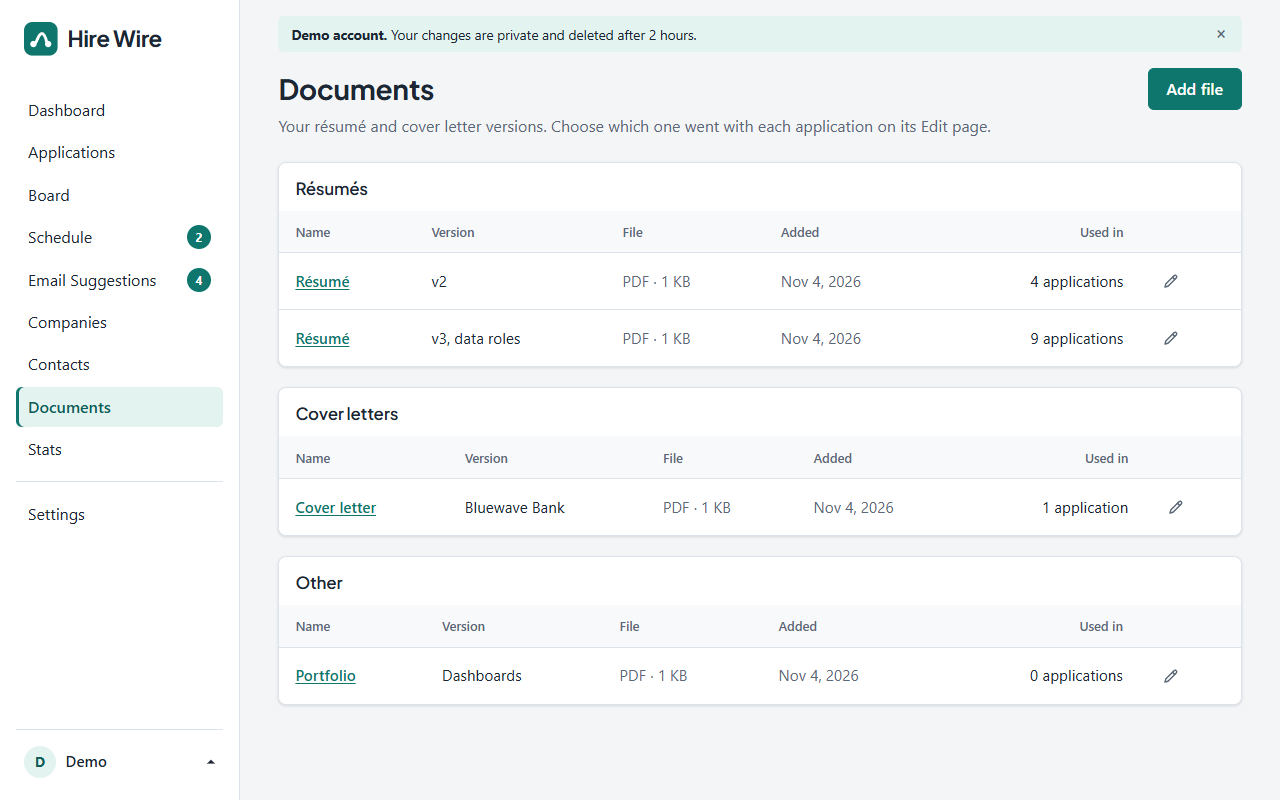
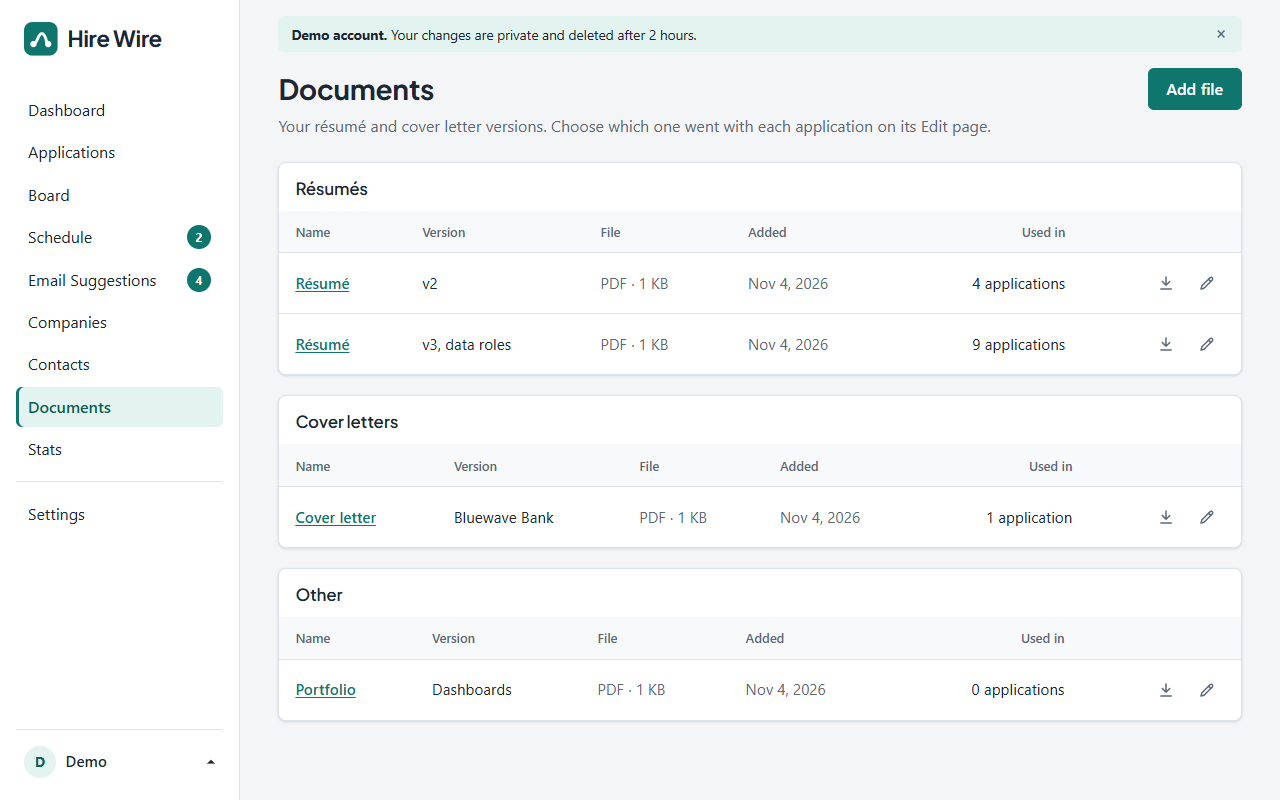
Polish Companies, Documents, Settings and the login message
From a design review the user pasted:
- Companies show the same coloured letter as the Board, on each card
  and next to the name on the company's page.
- Links get a thicker underline on hover, not only a colour change.
- Documents get a Download button beside Edit; both icon buttons are
  bigger (36px).
- Settings: the time zone and reminder Save buttons look asleep until
  something in their form changes, then wake up with an "Unsaved
  changes" note. They still work either way.
- The calendar link's Copy button now also shows where the browser has
  no clipboard; there it selects the link for Ctrl+C.
- Login: the logout message was already a toast with JavaScript (PR
  #8); without JavaScript it now floats at the top right instead of
  squeezing the green panel. Toasts fade after 5 seconds (was 6).
- Chart labels already passed (5.7:1 light, 6.7:1 dark).
- All README pictures retaken.

diff --git a/hirewire/static/style.css b/hirewire/static/style.css
@@ -148,7 +148,8 @@ h2 { font-size: 1.2rem; }
 h3 { font-size: 1.05rem; }
 p { margin: 0 0 1em; }
 a { color: var(--accent); text-underline-offset: .15em; }
-a:hover { color: var(--accent-strong); }
+/* Links are underlined; on hover the line gets thicker too, not only the colour. */
+a:hover { color: var(--accent-strong); text-decoration-thickness: 2px; }
 img { max-width: 100%; height: auto; display: block; }
 [hidden] { display: none !important; }
 :focus-visible { outline: 2px solid var(--accent); outline-offset: 2px; }
@@ -189,6 +190,8 @@ img { max-width: 100%; height: auto; display: block; }
 .flash-error { background: var(--danger-soft); border-left-color: var(--danger); }
 .flash-close { flex: none; width: 1.6rem; height: 1.6rem; margin: -.1rem 0; padding: 0; background: none; border: 0; border-radius: 50%; color: var(--ink-soft); font-size: 1.15rem; line-height: 1; cursor: pointer; }
 .flash-close:hover { background: var(--surface); color: var(--ink); }
+/* Without JavaScript, the login page's message floats at the top right instead of squeezing the panel. */
+html:not(.js) .welcome-layout .flashes { position: absolute; top: 1rem; right: 1rem; z-index: 5; width: min(26rem, calc(100% - 2rem)); }
 /* With JavaScript: toasts in the bottom right corner (across the bottom on phones). */
 .js .flashes { position: fixed; right: 1.5rem; bottom: 1.5rem; z-index: 50; width: min(26rem, calc(100% - 2rem)); margin: 0; }
 .js .flash { background: var(--surface); border: 1px solid var(--rule); border-left: 4px solid var(--accent); box-shadow: 0 .5rem 1.5rem rgb(0 0 0 / .18); animation: toast-in .2s ease-out; }
@@ -375,6 +378,9 @@ img { max-width: 100%; height: auto; display: block; }
 .theme-choice input:checked + span { background: var(--accent); color: var(--on-accent); font-weight: 600; }
 .theme-choice input:focus-visible + span { outline: 2px solid var(--accent); outline-offset: -4px; }
 .copy-line { display: block; width: 100%; padding: .6rem .75rem; background: var(--surface-soft); border: 1px solid var(--rule); border-radius: var(--radius-small); font-family: Consolas, Menlo, monospace; font-size: .85rem; color: var(--ink); }
+/* Settings: Save looks asleep until something in its form changes. */
+.button.is-waiting { background: var(--surface); color: var(--ink-soft); border-color: var(--control-border); font-weight: 500; box-shadow: none; }
+.unsaved-note { color: var(--warning-ink); font-size: .88rem; font-weight: 600; }
 .status-line { display: flex; flex-wrap: wrap; align-items: center; gap: .5rem 1rem; margin: 0 0 1rem; }
 
 /* ---------- Stage pills ---------- */
@@ -429,7 +435,12 @@ html { scrollbar-color: var(--rule-strong) var(--bg); }
 .company-grid { list-style: none; margin: 0; padding: 0; display: grid; grid-template-columns: repeat(auto-fill, minmax(min(100%, 17rem), 1fr)); gap: 1rem; }
 .company-card { position: relative; margin: 0; display: flex; flex-direction: column; }
 .company-card:hover { border-color: var(--accent); }
-.company-card h2 { font-size: 1.05rem; margin-bottom: .25rem; }
+.company-card h2 { font-size: 1.05rem; margin: 0; min-width: 0; }
+.company-card-head { display: flex; align-items: center; gap: .65rem; margin-bottom: .35rem; }
+.company-card-head .company-badge { width: 2.1rem; height: 2.1rem; font-size: .95rem; }
+.company-title { display: inline-flex; align-items: center; gap: .7rem; }
+.company-title .company-badge { width: 2.4rem; height: 2.4rem; font-size: 1.05rem; }
+.doc-actions { white-space: nowrap; text-align: right; }
 .company-card p { margin: 0; }
 .company-count { margin-top: auto !important; padding-top: .75rem; font-size: .88rem; font-weight: 600; color: var(--ink-soft); }
 
@@ -640,7 +651,7 @@ html { scrollbar-color: var(--rule-strong) var(--bg); }
 .snooze-menu { position: absolute; right: 0; top: calc(100% + .3rem); z-index: 4; display: grid; min-width: 8rem; margin: 0; padding: .3rem; background: var(--surface); border: 1px solid var(--rule); border-radius: var(--radius-small); box-shadow: 0 .25rem 1rem rgb(0 0 0 / .12); }
 .snooze-menu .link-button { padding: .4rem .6rem; border-radius: var(--radius-small); color: var(--ink); text-align: left; }
 .snooze-menu .link-button:hover { background: var(--surface-soft); text-decoration: none; }
-.icon-link { display: inline-flex; align-items: center; justify-content: center; width: 2rem; height: 2rem; border-radius: var(--radius-small); color: var(--ink-soft); }
+.icon-link { display: inline-flex; align-items: center; justify-content: center; width: 2.25rem; height: 2.25rem; border-radius: var(--radius-small); color: var(--ink-soft); }
 .icon-link:hover { background: var(--surface-soft); color: var(--accent); }
 .date-tile { flex: none; display: flex; flex-direction: column; align-items: center; justify-content: center; width: 3.1rem; height: 3.3rem; border: 1px solid var(--rule); border-radius: var(--radius-small); background: var(--surface-soft); line-height: 1.1; }
 .date-month { font-size: .7rem; font-weight: 700; letter-spacing: .06em; text-transform: uppercase; color: var(--accent-strong); }

diff --git a/hirewire/static/app.js b/hirewire/static/app.js
@@ -61,7 +61,7 @@ function setUpConfirm() {
   });
 }
 
-// Messages float as toasts. Good news fades after 6 seconds (not while pointed at or
+// Messages float as toasts. Good news fades after 5 seconds (not while pointed at or
 // focused); a problem stays until closed, so nobody misses it.
 function setUpToasts() {
   document.querySelectorAll("[data-flash]").forEach((toast) => {
@@ -73,7 +73,7 @@ function setUpToasts() {
     };
     close.addEventListener("click", leave);
     if ("stays" in toast.dataset) return;
-    let timer = setTimeout(leave, 6000);
+    let timer = setTimeout(leave, 5000);
     const pause = () => clearTimeout(timer);
     const resume = () => { clearTimeout(timer); timer = setTimeout(leave, 3000); };
     toast.addEventListener("mouseenter", pause);
@@ -83,11 +83,13 @@ function setUpToasts() {
   });
 }
 
-// "Copy" buttons next to a recovery code or a calendar link.
+// "Copy" buttons next to a recovery code or a calendar link. Where the browser has no
+// clipboard (an http address), the text is selected for Ctrl+C instead.
 function setUpCopy() {
   document.querySelectorAll("[data-copy-button]").forEach((button) => {
     const source = button.closest(".card, .setting").querySelector("[data-copy-text]");
-    if (!source || !navigator.clipboard) return;
+    if (!source) return;
+    if (!navigator.clipboard && !("copyAnywhere" in button.dataset)) return;
     button.hidden = false;
     const label = button.textContent;
     button.addEventListener("click", async () => {
@@ -95,10 +97,35 @@ function setUpCopy() {
         await navigator.clipboard.writeText(source.value || source.textContent.trim());
         button.textContent = "Copied";
       } catch (error) {
-        button.textContent = "Copy didn't work";
+        if (source.select) source.select();
+        button.textContent = "Selected: press Ctrl+C";
       }
-      setTimeout(() => { button.textContent = label; }, 2000);
+      setTimeout(() => { button.textContent = label; }, 2500);
     });
+  });
+}
+
+// Settings: each Save button looks asleep until its form has a change, then wakes up
+// and says so. It still works either way (and without JavaScript it is always awake).
+function setUpUnsavedChanges() {
+  document.querySelectorAll("form[data-watch-changes]").forEach((form) => {
+    const button = form.querySelector("button[type=submit]");
+    if (!button || button.closest("fieldset:disabled")) return;
+    const note = document.createElement("span");
+    note.className = "unsaved-note";
+    note.textContent = "Unsaved changes";
+    note.hidden = true;
+    button.before(note);
+    const snapshot = () => new URLSearchParams(new FormData(form)).toString();
+    const start = snapshot();
+    const update = () => {
+      const changed = snapshot() !== start;
+      button.classList.toggle("is-waiting", !changed);
+      note.hidden = !changed;
+    };
+    form.addEventListener("input", update);
+    form.addEventListener("change", update);
+    update();
   });
 }
 
@@ -269,6 +296,7 @@ setUpMenu();
 setUpUserMenu();
 setUpConfirm();
 setUpCopy();
+setUpUnsavedChanges();
 setUpFilters();
 setUpFilterPanel();
 setUpRowLinks();

diff --git a/hirewire/templates/documents/list.html b/hirewire/templates/documents/list.html
@@ -12,7 +12,7 @@
       <h2 class="table-title">{{ label }}{{ 's' if label != 'Other' }}</h2>
       <div class="table-scroll">
         <table class="table as-cards">
-          <thead><tr><th>Name</th><th>Version</th><th>File</th><th>Added</th><th class="num">Used in</th><th><span class="visually-hidden">Edit</span></th></tr></thead>
+          <thead><tr><th>Name</th><th>Version</th><th>File</th><th>Added</th><th class="num">Used in</th><th><span class="visually-hidden">Download and edit</span></th></tr></thead>
           <tbody>
             {% for doc in files %}
               <tr>
@@ -21,7 +21,10 @@
                 <td class="col-meta muted">{{ doc.filename.rsplit('.', 1)[1]|upper }} · {{ size_words(doc.size) }}</td>
                 <td class="col-meta muted">{{ doc.created_at|nice_date }}</td>
                 <td class="col-meta num">{% set count = used.get(doc.id, 0) %}{{ count }} {{ 'application' if count == 1 else 'applications' }}</td>
-                <td class="col-stage"><a class="icon-link" href="{{ url_for('documents.edit', document_id=doc.id) }}" aria-label="Edit {{ doc.name }}">{{ pencil_icon() }}</a></td>
+                <td class="col-stage doc-actions">
+                  <a class="icon-link" href="{{ url_for('documents.download', document_id=doc.id) }}" aria-label="Download {{ doc.title }}" title="Download"><svg viewBox="0 0 24 24" width="18" height="18" fill="none" stroke="currentColor" stroke-width="2" stroke-linecap="round" stroke-linejoin="round" aria-hidden="true"><path d="M12 4v11M7 10l5 5 5-5M5 20h14"></path></svg></a>
+                  <a class="icon-link" href="{{ url_for('documents.edit', document_id=doc.id) }}" aria-label="Edit {{ doc.title }}" title="Edit">{{ pencil_icon() }}</a>
+                </td>
               </tr>
             {% endfor %}
           </tbody>

diff --git a/hirewire/templates/settings.html b/hirewire/templates/settings.html
@@ -26,7 +26,7 @@
         <h2>Time Zone</h2>
         <p>Interview times, reminders and "today" follow this place.</p>
       </div>
-      <form method="post">
+      <form method="post" data-watch-changes>
         {{ csrf() }}
         <input type="hidden" name="action" value="timezone">
         <fieldset class="stack plain-fieldset" {{ locked }}>
@@ -41,7 +41,7 @@
         <h2>Reminders</h2>
         <p>Hire Wire adds these follow-ups for you. They go away by themselves when they stop making sense.</p>
       </div>
-      <form method="post">
+      <form method="post" data-watch-changes>
         {{ csrf() }}
         <input type="hidden" name="action" value="reminders">
         <fieldset class="stack plain-fieldset" {{ locked }}>
@@ -73,7 +73,7 @@
             <li>Paste the link and press <strong>Add calendar</strong>. It shows on your phone too.</li>
           </ol>
           <div class="form-actions setting-account-actions">
-            <button class="button" type="button" data-copy-button hidden>Copy link</button>
+            <button class="button" type="button" data-copy-button data-copy-anywhere hidden>Copy link</button>
             <form method="post" data-confirm="Make a new link? The old one stops working, so calendars using it stop updating.">
               {{ csrf() }}<input type="hidden" name="action" value="calendar_on">
               <button class="button button-quiet" type="submit" {{ locked }}>Make a new link</button>

diff --git a/hirewire/templates/companies/list.html b/hirewire/templates/companies/list.html
@@ -17,7 +17,10 @@
     <ul class="company-grid">
       {% for company, count in rows %}
         <li class="card company-card">
-          <h2><a class="row-link" href="{{ url_for('companies.detail', company_id=company.id) }}">{{ company.name }}</a></h2>
+          <div class="company-card-head">
+            <span class="company-badge company-badge-{{ company.id % 6 }}" aria-hidden="true">{{ company.name[:1]|upper }}</span>
+            <h2><a class="row-link" href="{{ url_for('companies.detail', company_id=company.id) }}">{{ company.name }}</a></h2>
+          </div>
           <p class="muted small">{{ [company.industry, company.location]|select|join(' · ') or 'No details yet' }}</p>
           <p class="company-count">{{ count }} {{ 'application' if count == 1 else 'applications' }}</p>
         </li>

diff --git a/hirewire/templates/companies/detail.html b/hirewire/templates/companies/detail.html
@@ -4,7 +4,7 @@
 {% block content %}
   <a class="back-link" href="{{ url_for('companies.index') }}">&larr; Companies</a>
   <div class="page-head">
-    <h1>{{ company.name }}</h1>
+    <h1 class="company-title"><span class="company-badge company-badge-{{ company.id % 6 }}" aria-hidden="true">{{ company.name[:1]|upper }}</span>{{ company.name }}</h1>
     <div class="actions">
       <a class="button button-quiet" href="{{ url_for('companies.edit', company_id=company.id) }}">{{ pencil_icon() }} Edit</a>
       <a class="button" href="{{ url_for('applications.new', company_name=company.name) }}">Add application</a>

diff --git a/tests/test_extras.py b/tests/test_extras.py
@@ -145,6 +145,22 @@ def test_upload_download_and_use_a_document(app, me, user_id):
     assert documents(app) == [] and get_job(app, job_id).resume_id is None
 
 
+def test_each_file_has_a_download_button(app, me):
+    upload(me)
+    doc = documents(app)[0]
+    page = me.get("/documents/").get_data(as_text=True)
+    assert f'href="/documents/{doc.id}/file" aria-label="Download Résumé (v3)"' in page
+    assert 'aria-label="Edit Résumé (v3)"' in page
+
+
+def test_companies_show_their_letter(app, me, user_id):
+    job_id = add_job(app, user_id, "Initech")
+    company_id = get_job(app, job_id).company_id
+    badge = f'<span class="company-badge company-badge-{company_id % 6}" aria-hidden="true">I</span>'
+    assert badge in me.get("/companies/").get_data(as_text=True)
+    assert badge in me.get(f"/companies/{company_id}").get_data(as_text=True)
+
+
 def test_word_files_too(app, me):
     assert upload(me, DOCX, "cover.docx", kind="cover_letter").status_code == 302
     assert documents(app)[0].filename == "cover.docx"

diff --git a/tests/test_settings.py b/tests/test_settings.py
@@ -64,6 +64,12 @@ def test_dates_follow_the_time_zone():
     assert to_local(moment, "Not/AZone").day == 4  # unknown falls back to Manila
 
 
+def test_save_buttons_watch_for_changes(me):
+    page = me.get("/settings/").get_data(as_text=True)
+    # The time zone and reminder forms tell app.js to wake their Save button on a change.
+    assert page.count("data-watch-changes") == 2
+
+
 def test_settings_links_in_the_menu(client, user_id):
     page = log_in_as(client, user_id).get("/dashboard/").data
     assert b'href="/settings/"' in page

diff --git a/AGENTS.md b/AGENTS.md
@@ -43,6 +43,7 @@ Python 3.13 is at `%LOCALAPPDATA%\Programs\Python\Python313\python.exe`. Use the
 - Board cards: a coloured company letter (`.company-badge-N`, N = company id % 6, colours via `light-dark()` and checked at 6.3:1 or more), a drag handle, and a small move button whose `<details>` menu is the keyboard / phone / no-JavaScript way to move a card (keep it). A click on a card opens the application (`setUpRowLinks()`). Column tops use the stage's ink colour. All scrolling areas share thin themed scrollbars.
 - Messages (`flash()`) float as toasts with JavaScript (`setUpToasts()`): good news fades after 6 seconds (paused while pointed at or focused); pass `"error"` as the category for a problem, and its toast stays until closed. Without JavaScript they sit at the top of the page. Write messages that say what changed ("Interview with Acme added to your schedule: ...").
 - Interview rows offer "Details" and, with a video link, "Join call"; only follow-ups have Done and Snooze.
+- Settings forms marked `data-watch-changes` get a sleeping Save button that wakes with an "Unsaved changes" note (`setUpUnsavedChanges()`); it still submits either way. Companies show the same coloured letter as the Board (`company-badge-{id % 6}`). Documents have Download and Edit icon buttons.
 - Stage pills always show the stage's name (never colour alone). Dark mode is defined twice in `style.css` (device setting + Settings choice): change both blocks together.
 - **Every PR must keep the README's pictures up to date (the owner's standing rule).** Screenshots live in `docs/screenshots/` and every one is shown in the README. If a PR visibly changes a page, retake its pictures; if it adds a page or feature, add a picture to `docs/take_screenshots.py` and the README. `tests/test_readme.py` fails if they disagree. In a PR description, link pictures with a full `raw.githubusercontent.com` address.
 - Commit messages and PR bodies go through files (`git commit -F`, `gh pr create --body-file`): PowerShell 5.1 breaks quotes in arguments.
